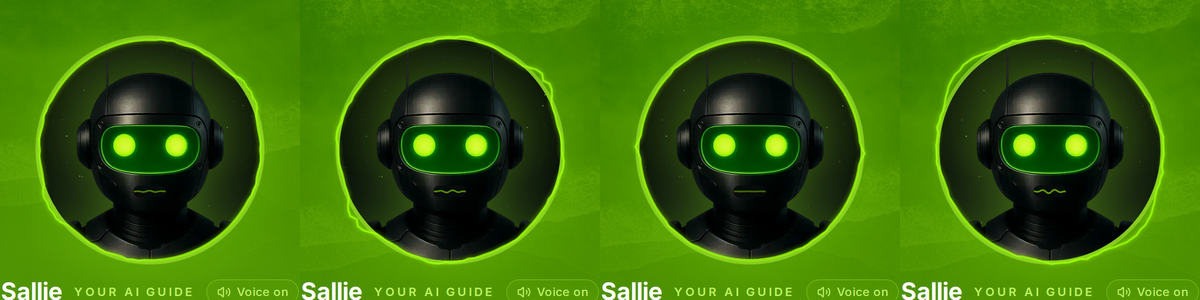
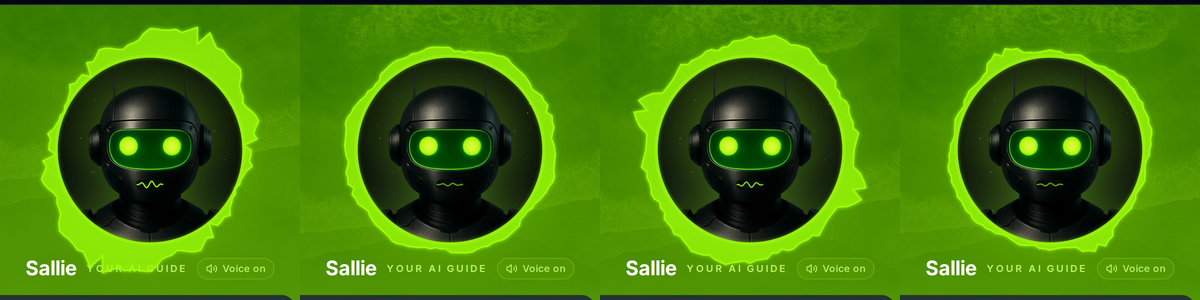
feat: fill the waveform band from the circle rim and let it reach further
The wave now starts exactly on the rim, the band between rim and wave is
filled lime, and the canvas is 150% of the circle so the wave can reach
about 30% of the diameter beyond it. Also guards the recogniser's
onend/onerror so a stale, aborted instance can't clobber the live one
(Copilot review).

Claude-Session: https://claude.ai/code/session_01XodnuoB8h8XMHVAzARx38u

diff --git a/components/sallie-stage.tsx b/components/sallie-stage.tsx
@@ -205,11 +205,13 @@ function WaveformRing({ className }: { className?: string }) {
       if (alpha < 0.01) return;
 
       const c = size / 2;
-      const base = size * 0.39; // just outside the circle's rim (circle is 78% of this canvas)
-      const reach = size * 0.09;
+      // The circle is 2/3 of this canvas, so its rim is at 1/3 — the wave
+      // starts exactly on the rim and the band between rim and wave is filled.
+      const base = size / 3;
+      const reach = size * 0.15;
       const rotation = reduceMotion ? 0 : ((performance.now() % 10000) / 10000) * Math.PI * 2;
       const n = frame.bins.length;
-      ctx.beginPath();
+      const loop = new Path2D();
       for (let i = 0; i <= 120; i++) {
         const angle = (i / 120) * Math.PI * 2 + rotation;
         // Walk the spectrum up and down four times around the loop so it
@@ -221,15 +223,20 @@ function WaveformRing({ className }: { className?: string }) {
         const r = base + amp * reach * (0.4 + 0.6 * frame.level);
         const x = c + r * Math.cos(angle);
         const y = c + r * Math.sin(angle);
-        if (i === 0) ctx.moveTo(x, y);
-        else ctx.lineTo(x, y);
+        if (i === 0) loop.moveTo(x, y);
+        else loop.lineTo(x, y);
       }
-      ctx.closePath();
+      loop.closePath();
+      // Fill rim → wave (the loop minus the circle), then edge the wave.
+      const band = new Path2D(loop);
+      band.arc(c, c, base, 0, Math.PI * 2);
+      ctx.fillStyle = `rgba(157, 254, 10, ${(0.55 * alpha).toFixed(3)})`;
+      ctx.fill(band, 'evenodd');
       ctx.lineWidth = 2;
-      ctx.strokeStyle = `rgba(157, 254, 10, ${(0.85 * alpha).toFixed(3)})`;
+      ctx.strokeStyle = `rgba(157, 254, 10, ${(0.95 * alpha).toFixed(3)})`;
       ctx.shadowColor = 'rgba(157, 254, 10, 0.9)';
       ctx.shadowBlur = 10;
-      ctx.stroke();
+      ctx.stroke(loop);
       if (alpha < 0.99 || frame.level > 0) raf = requestAnimationFrame(draw);
     };
 
@@ -247,7 +254,7 @@ function WaveformRing({ className }: { className?: string }) {
     <canvas
       ref={canvasRef}
       aria-hidden="true"
-      className={cn('pointer-events-none absolute -inset-[14%] h-[128%] w-[128%]', className)}
+      className={cn('pointer-events-none absolute -inset-[25%] h-[150%] w-[150%]', className)}
     />
   );
 }

diff --git a/components/sallie-voice.ts b/components/sallie-voice.ts
@@ -456,6 +456,8 @@ export function useSpeechInput({ onInterim, onFinal, onSilent }: SpeechInputOpti
       callbacks.current.onInterim?.((finalText + interim).trim());
     };
     recognition.onend = () => {
+      // A previous, aborted instance can still fire; only the live one may touch state.
+      if (recognitionRef.current !== recognition) return;
       recognitionRef.current = null;
       if (failedOver) return;
       setListening(false);
@@ -464,6 +466,7 @@ export function useSpeechInput({ onInterim, onFinal, onSilent }: SpeechInputOpti
       else callbacks.current.onSilent?.();
     };
     recognition.onerror = (event) => {
+      if (recognitionRef.current !== recognition) return;
       const code = event.error;
       console.warn('Speech recognition error', code);
       recognitionRef.current = null;
